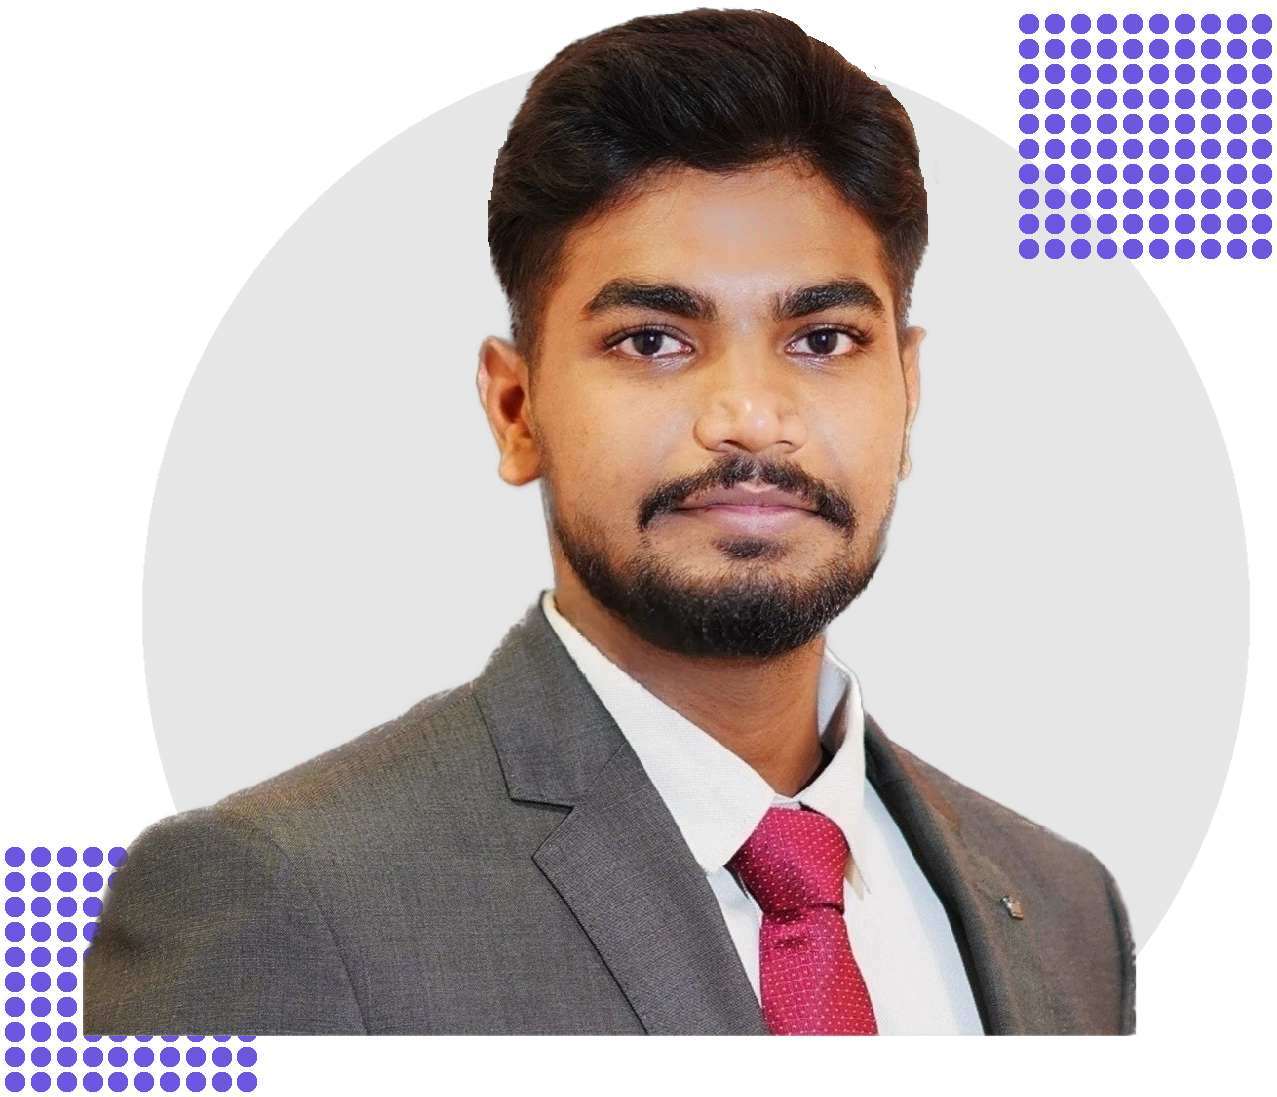
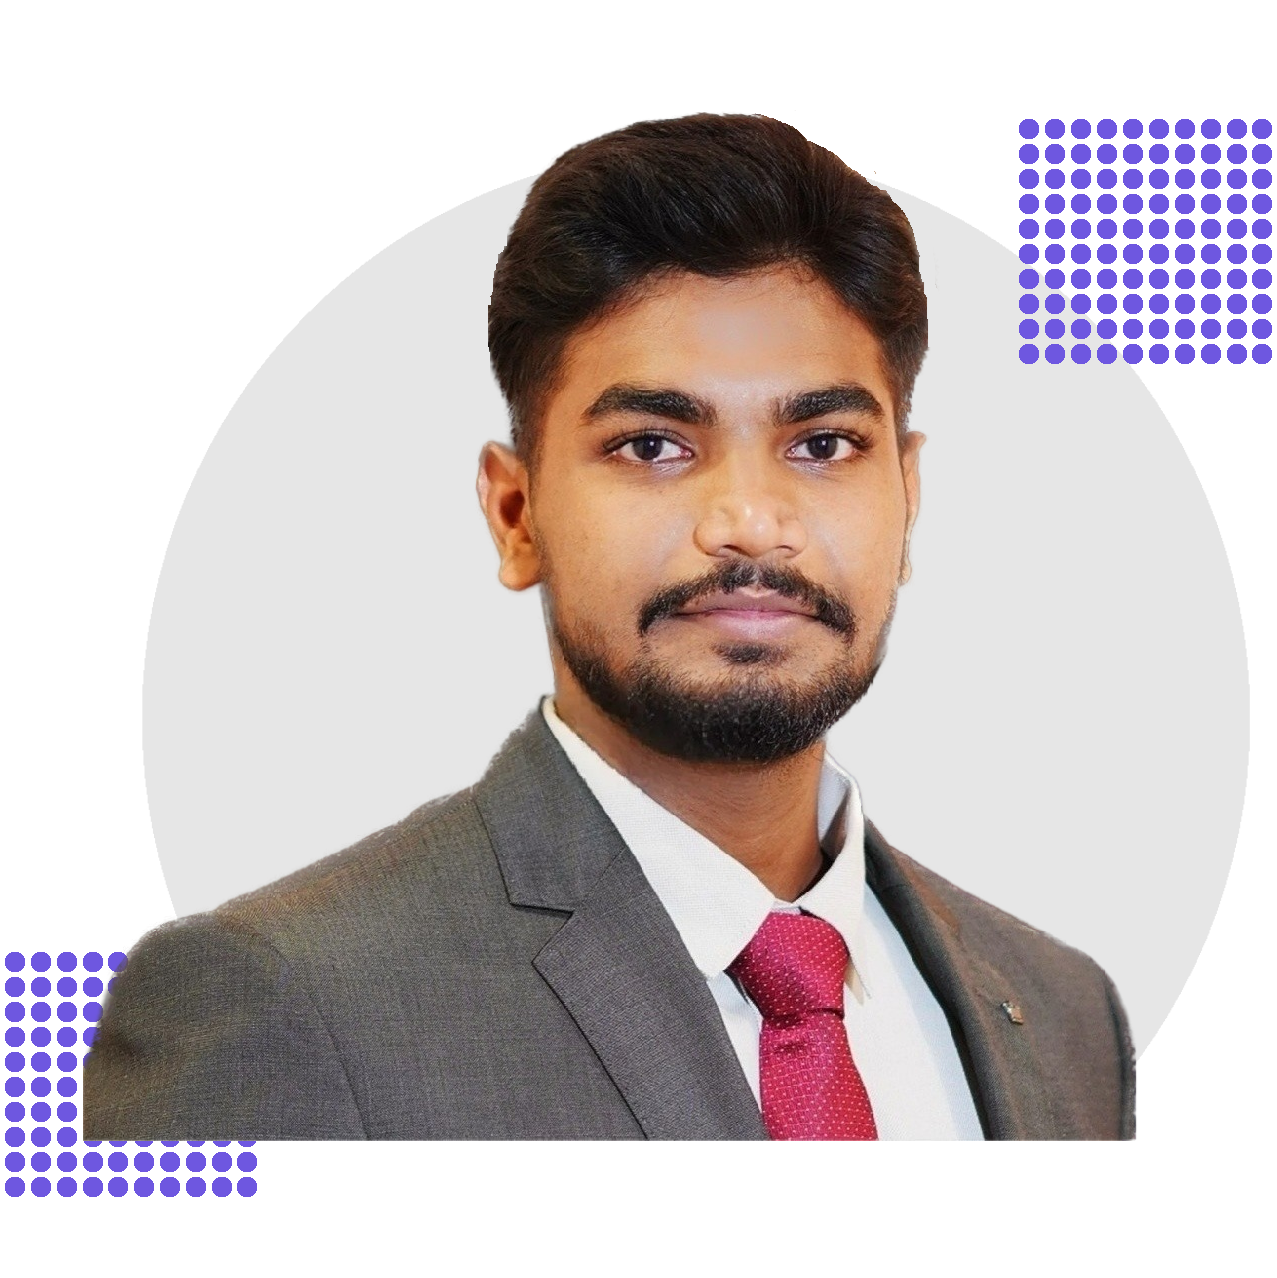
blob size reset

diff --git a/index.html b/index.html
@@ -110,7 +110,7 @@
         
                             <div class="home__img">
                                 <svg class="home__blob" ViewBox="0 0 180 180">
-                                    <image class="home__blob-img" x="0" y="20" xlink:href="./assets/img/A_final.png"/>
+                                    <image class="home__blob-img" x="0" y="0" xlink:href="./assets/img/A_final.png"/>
                                 </svg>
                             </div>
 
